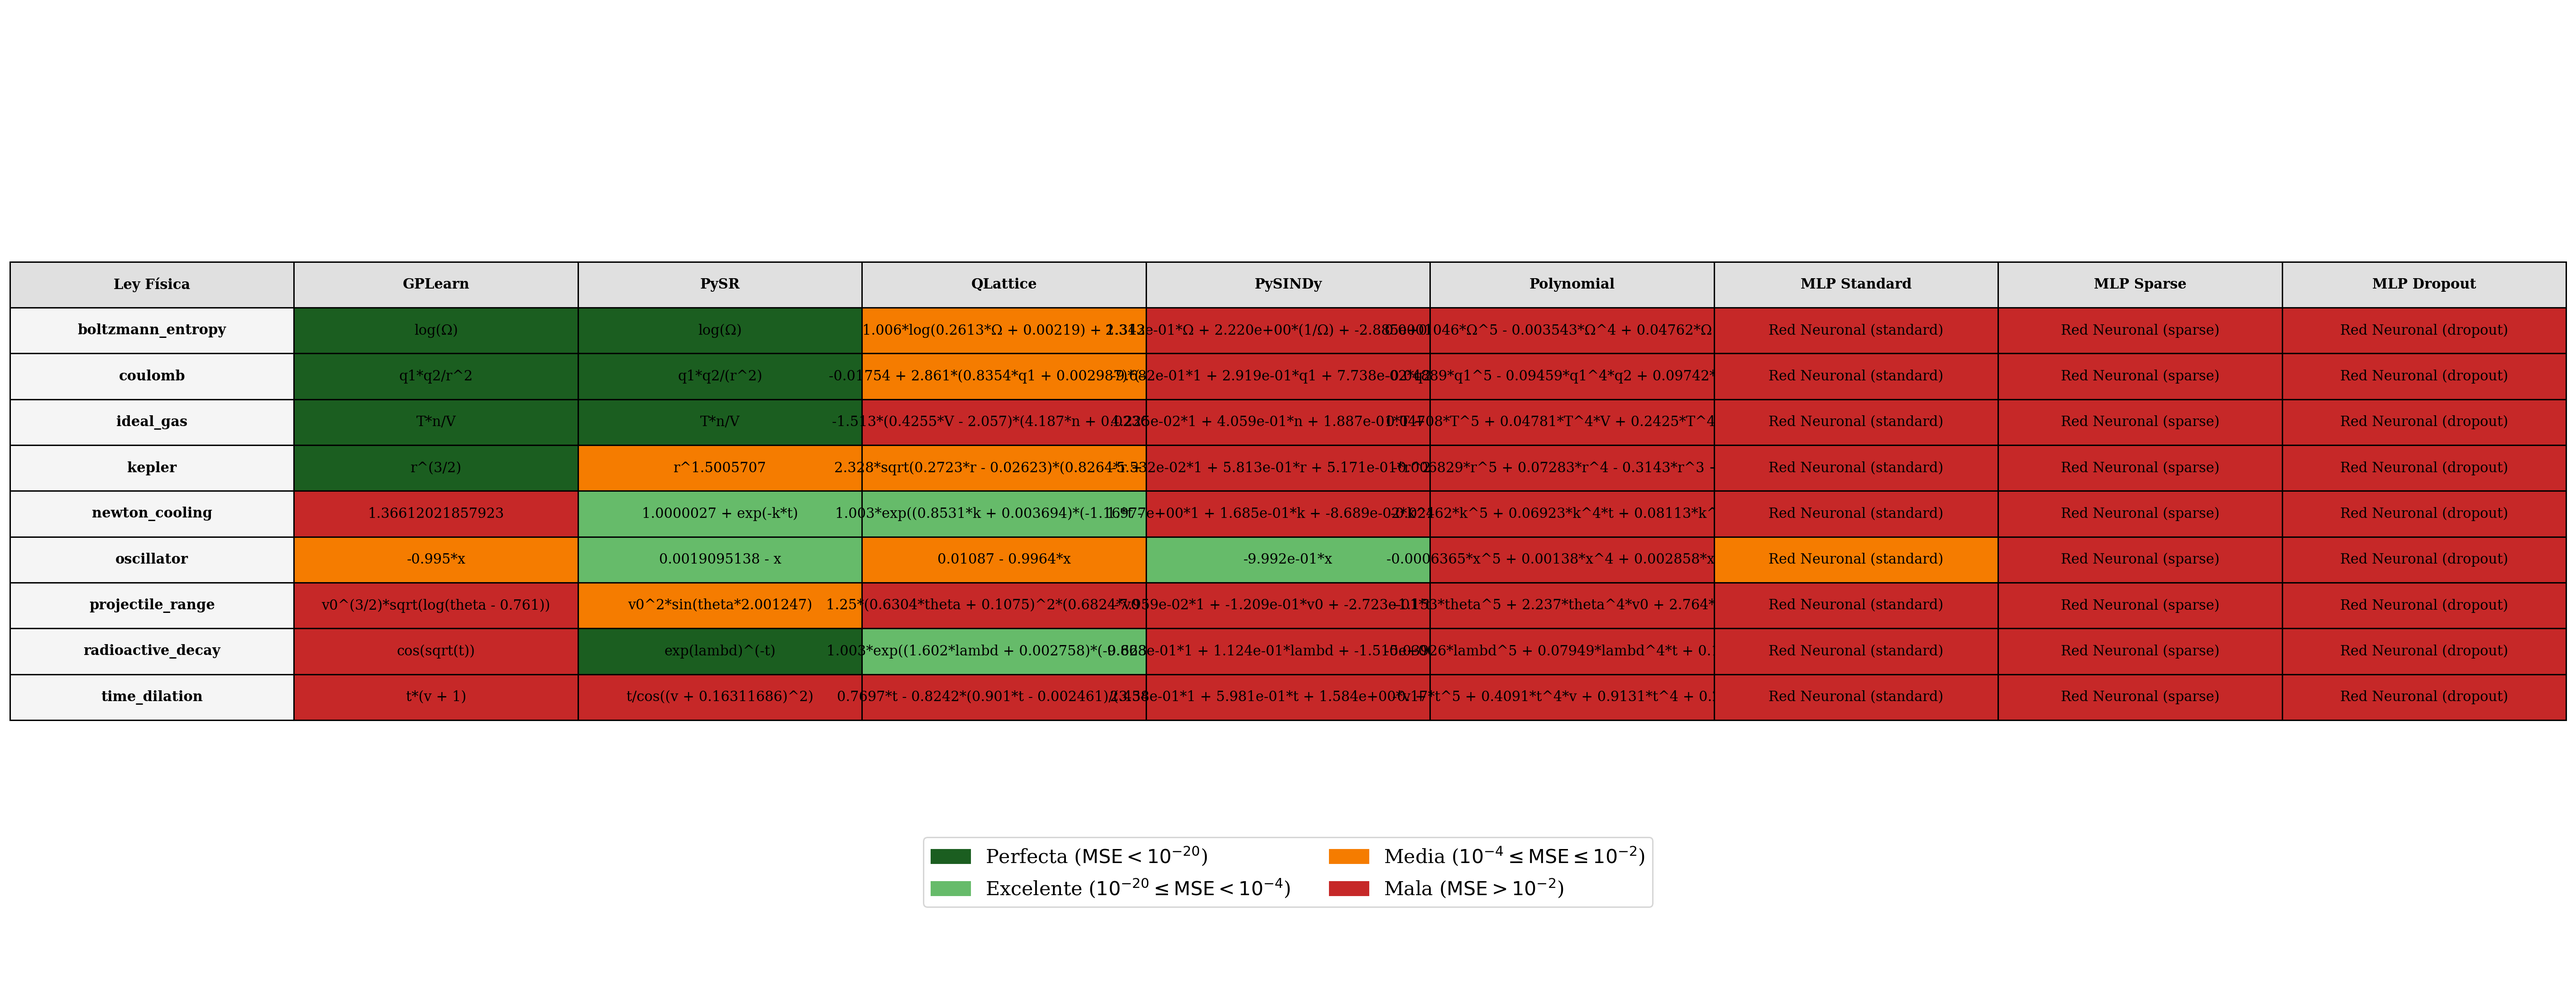
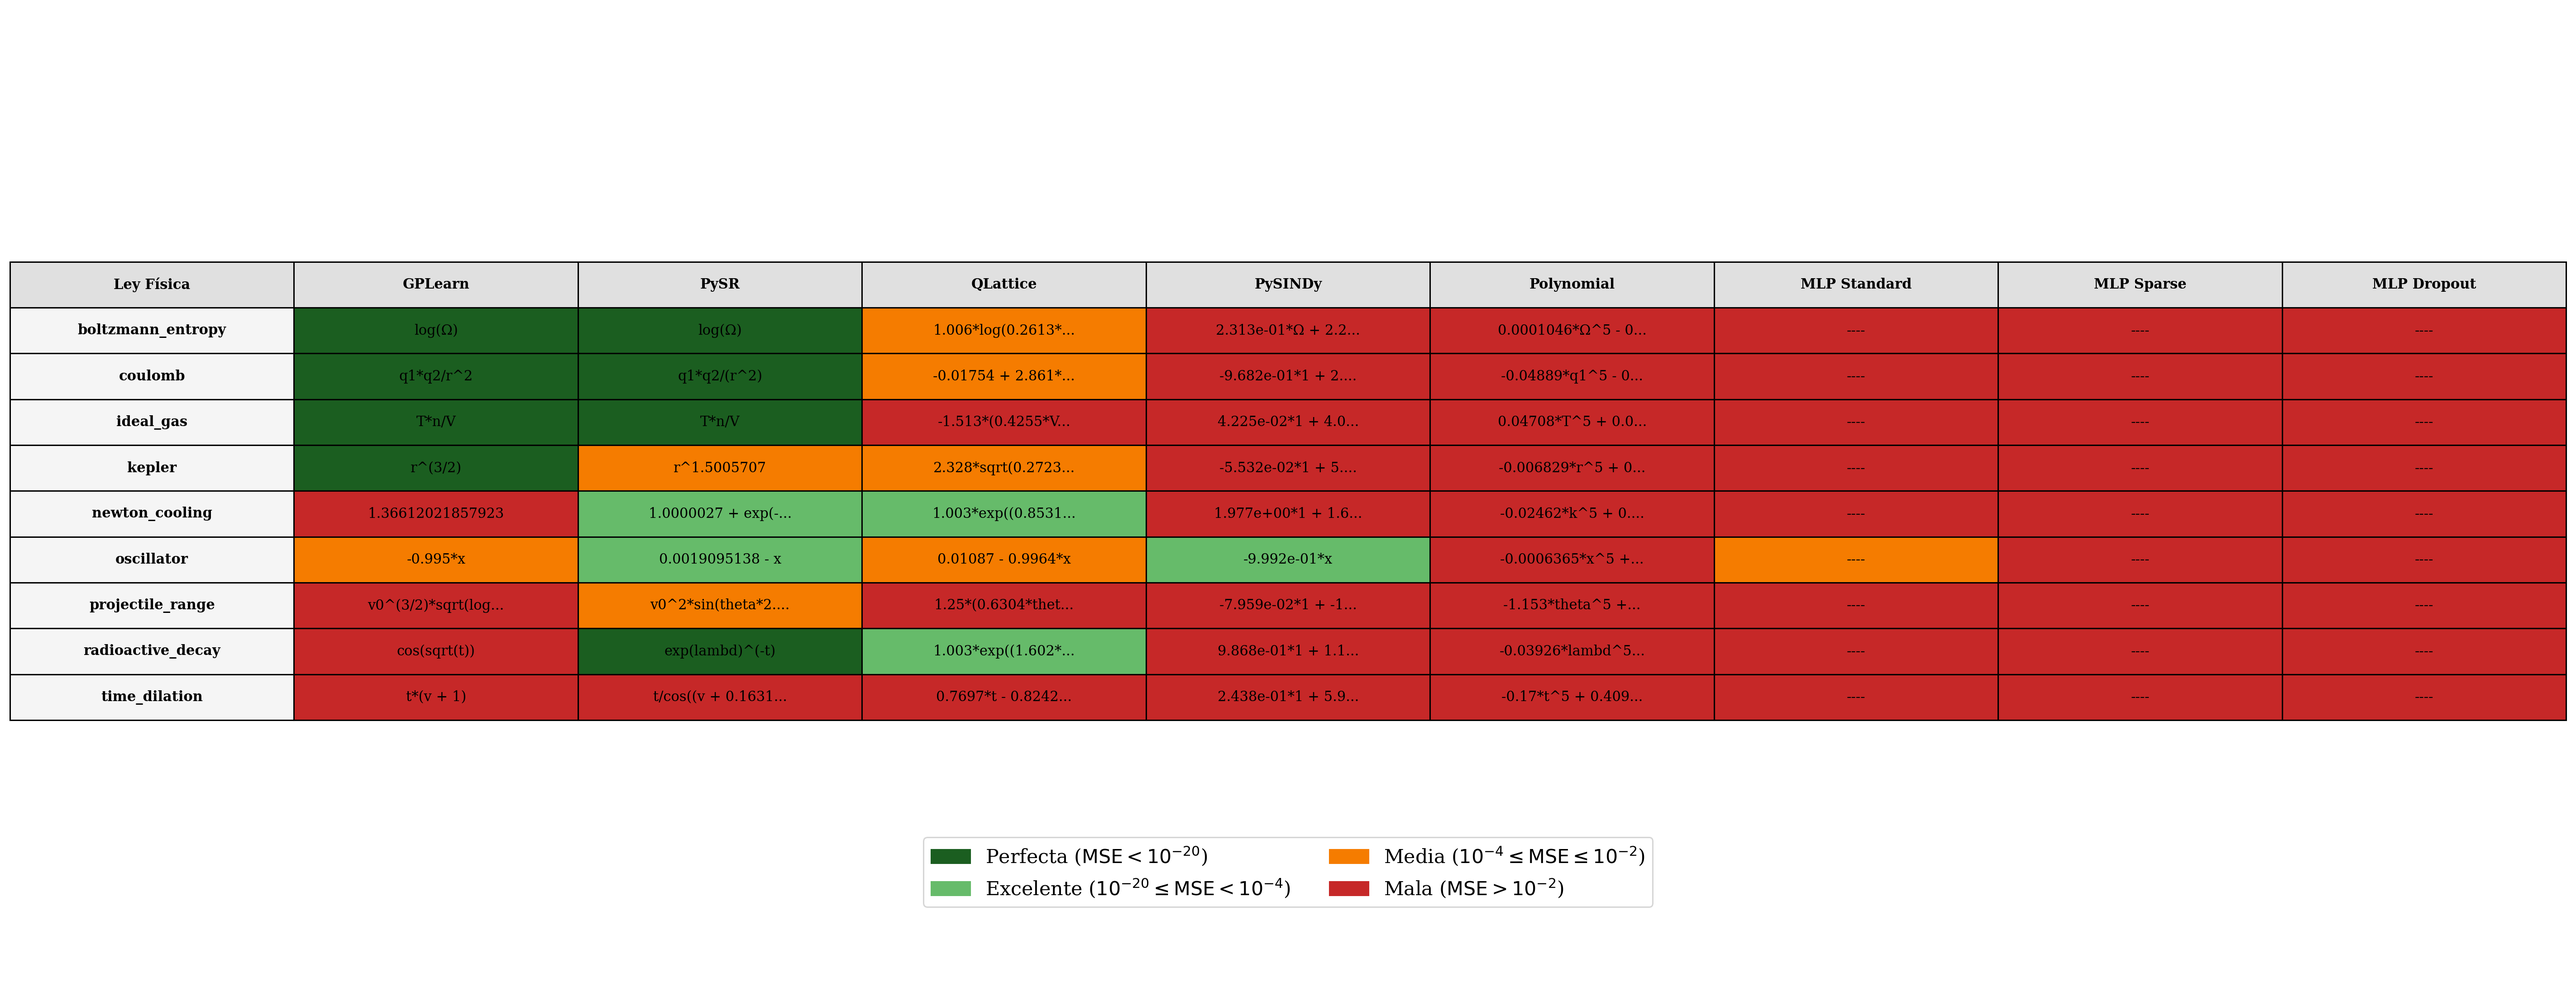
'changes in data_table'

diff --git a/src/table_final.py b/src/table_final.py
@@ -1,5 +1,5 @@
 r"""
-table_final.py - FIX FINAL ROBUSTO (SIN LATEX CRASH + WRAP + LEYENDA CIENTÍFICA)
+table_final.py - FIX FINAL ROBUSTO (WRAP INTELIGENTE + LEGEND + CELL FIT)
 """
 
 import json
@@ -113,7 +113,7 @@ def load_ood(path):
     return ood
 
 # ─────────────────────────────────────────────────────────────
-# SAFE TEXT (SIN LATEX -> EVITA CRASHES)
+# CLEAN EQUATION
 # ─────────────────────────────────────────────────────────────
 
 def clean_equation(eq: str) -> str:
@@ -121,28 +121,32 @@ def clean_equation(eq: str) -> str:
         return "--"
 
     eq = str(eq).replace("\n", " ")
-
-    # simplificaciones seguras
     eq = eq.replace("**", "^")
     eq = eq.replace("omega", "Ω")
-
-    # sqrt seguro básico
-    eq = re.sub(r"sqrt\((.*?)\)", r"sqrt(\1)", eq)
-
-    # limpiar basura
+    eq = re.sub(r"square\((.*?)\)", r"sqrt(\1)", eq)
     eq = re.sub(r"\s+", " ", eq)
 
     return eq.strip()
 
+# ─────────────────────────────────────────────────────────────
+# ⭐ NUEVO: ajuste dinámico por columna
+# ─────────────────────────────────────────────────────────────
 
-def truncate_text(eq: str, maxlen=45) -> str:
-    if eq == "--":
-        return eq
+def compute_max_chars_per_col(fig_width, n_cols, base=180):
+    """
+    Aproximación: más columnas => menos caracteres por celda
+    """
+    return max(15, int(base / n_cols))
 
-    if len(eq) <= maxlen:
-        return eq
 
-    return eq[:maxlen] + "..."
+def truncate_to_cell_width(text, max_chars):
+    if text == "--":
+        return text
+
+    if len(text) <= max_chars:
+        return text
+
+    return text[:max_chars - 3].rstrip() + "..."
 
 
 # ─────────────────────────────────────────────────────────────
@@ -163,7 +167,6 @@ def get_colour(mse, mae):
     else:
         return RED
 
-
 # ─────────────────────────────────────────────────────────────
 # TABLE
 # ─────────────────────────────────────────────────────────────
@@ -182,26 +185,30 @@ def build_table(df, ood, noise, laws, models):
                 (df["noise"] == noise)
             ]
 
-            if sub.empty:
-                eq = "--"
+            # ── BLOQUE CORREGIDO ──
+            is_nn = model.startswith("MLP")
+
+            if is_nn:
+                eq = "----"
                 mae = None
             else:
-                eq = sub.iloc[0]["equation"]
-                mae = sub.iloc[0]["mae"]
+                if sub.empty:
+                    eq = "--"
+                    mae = None
+                else:
+                    eq = sub.iloc[0]["equation"]
+                    mae = sub.iloc[0]["mae"]
 
             mse = ood.get(law, {}).get(model, {}).get(noise)
 
             eq_clean = clean_equation(eq)
-            eq_final = truncate_text(eq_clean)
-
-            row_t.append(eq_final)
+            row_t.append(eq_clean)
             row_c.append(get_colour(mse, mae))
 
         text.append(row_t)
         colors.append(row_c)
 
     return text, colors
-
 
 # ─────────────────────────────────────────────────────────────
 # RENDER
@@ -213,6 +220,16 @@ def render(cell_text, cell_colors, laws, models, law_names, out_path):
 
     fig, ax = plt.subplots(figsize=(26, 10))
     ax.axis("off")
+
+    # ── CALC WIDTH PER COLUMN ──
+    n_cols = len(models) + 1
+    max_chars = compute_max_chars_per_col(fig.get_figwidth(), n_cols)
+
+    # APPLY TRUNCATION
+    cell_text = [
+        [truncate_to_cell_width(txt, max_chars) for txt in row]
+        for row in cell_text
+    ]
 
     table_text = [[law_names.get(l, l)] + row for l, row in zip(laws, cell_text)]
     table_colors = [["#F5F5F5"] + row for row in cell_colors]
@@ -229,7 +246,6 @@ def render(cell_text, cell_colors, laws, models, law_names, out_path):
     tbl.set_fontsize(10)
     tbl.scale(1.0, 2.2)
 
-    # 🔥 FIX: wrap + clip + ajuste
     for (r, c), cell in tbl.get_celld().items():
         cell.get_text().set_wrap(True)
         cell.set_clip_on(True)
@@ -241,9 +257,7 @@ def render(cell_text, cell_colors, laws, models, law_names, out_path):
         if c == 0:
             cell.set_text_props(weight="bold")
 
-    # ─────────────────────────────────────────────
-    # LEGEND (MEJORADA)
-    # ─────────────────────────────────────────────
+    # ───────── LEGEND ─────────
 
     legend = [
         mpatches.Patch(color=PERFECT_GREEN,
@@ -268,7 +282,6 @@ def render(cell_text, cell_colors, laws, models, law_names, out_path):
     plt.tight_layout()
     fig.savefig(out_path, dpi=220, bbox_inches="tight")
     plt.close(fig)
-
 
 # ─────────────────────────────────────────────────────────────
 # MAIN

diff --git a/src/tables_eq.py b/src/tables_eq.py
@@ -257,4 +257,4 @@ def plot_equation_tables_json():
 
 if __name__ == "__main__":
     plot_recovery_grid_json()
-    # plot_equation_tables_json()
+    plot_equation_tables_json()
